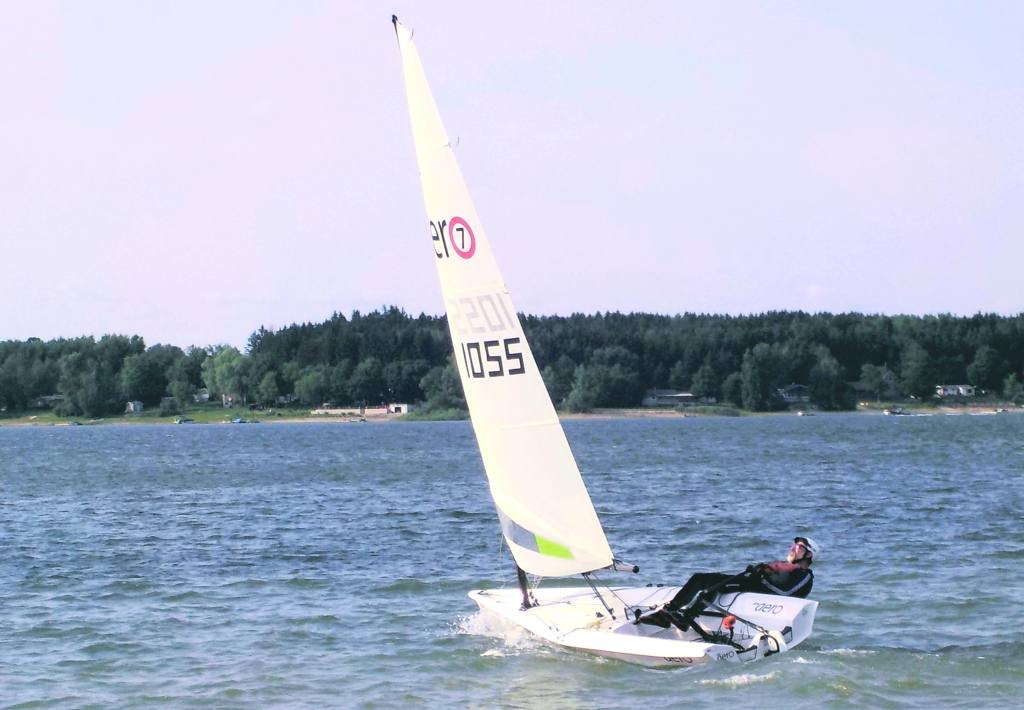
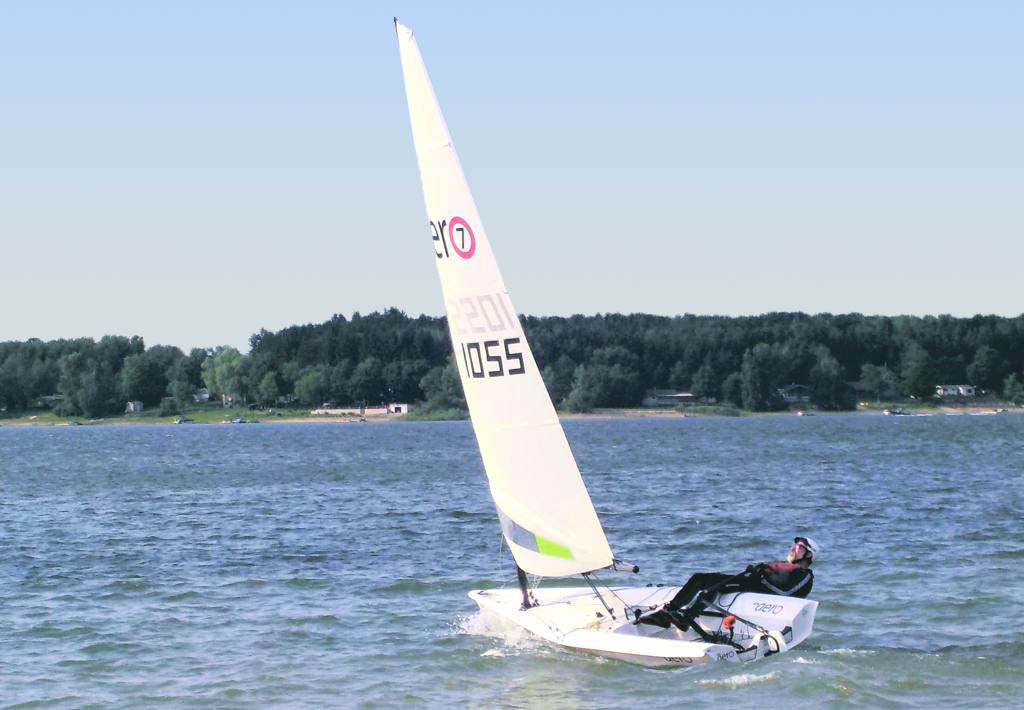
Color tint

diff --git a/index.md.html b/index.md.html
@@ -37,31 +37,34 @@ of each page.
     4. [Coastal Cruising Sailboats](cruisers/index.md.html)
 8. [A Sailor's Bookshelf](bookshelf/index.md.html)
 
+
 _In development_:
-- Intermediate Sail Trim
+- Intermediate Sail Trim <!-- [Intermediate Sail Trim Guide](trim/intermediate.md.html) -->
 - Racing Tactics
 - Cruiser Electrical Systems
-- Mooring
+- Mooring <!-- [Mooring and Anchoring](mooring/index.md.html) -->
 - Marine Sanitation Systems
 - Cruising Gear
 
-<!-- 
-- [Novice Sail Trim Guide](trim/novice.md.html)
-- [Intermediate Sail Trim Guide](trim/intermediate.md.html)
-- [Mooring and Anchoring](mooring/index.md.html)
--->
 
 # Nautical Term Translations
 
-To and From English and:
+Translations to and from English and...
+
+<table><tr valign="top"><td>
 
 - [French](https://icdept.cgaux.org/pdf_files/English-French-Glossary-Nautical-Terms.pdf)
 - [German](http://icdept.cgaux.org/pdf_files/German-English-Glossary.pdf)
 - [Italian](https://icdept.cgaux.org/pdf_files/English-Italian-Glossary-Nautical-Terms.pdf)
 - [Spanish](https://icdept.cgaux.org/pdf_files/English-Spanish-Glossary-Nautical-Terms.pdf)
+
+</td><td>
+
 - [Portuguese](https://icdept.cgaux.org/pdf_files/English-Portuguese-Glossary-Nautical-Terms.pdf)
 - [Japanese](https://icdept.cgaux.org/pdf_files/English-Japanese-Glossary-Nautical-Terms.pdf)
 - [Chinese](https://icdept.cgaux.org/pdf_files/English-Chinese-Glossary-Nautical-Terms.pdf)
+
+</td></tr></table>
 
 In my notes, I spell "gybe" as in British English (vs. "jibe"), but
 also use the American term "vang" (vs. "kicker"). That's because a) I
@@ -101,7 +104,7 @@ trans-Atlantic vocabulary.
   - [Navionics](https://www.navionics.com/)
   - [Savvy Navvy](https://www.savvy-navvy.com/)
 - AIS: [MarineTraffic](https://www.marinetraffic.com/)
-- Anchor alarm: [Anchor Pro](https://apps.apple.com/us/app/anchor-pro/id1445476850) _Note: anchor alarms do not work on Android phones!_
+- iOS Anchor alarm: [Anchor Pro](https://apps.apple.com/us/app/anchor-pro/id1445476850) _Note: anchor alarms do not work on Android phones!_
 - Current: [PNW Current Atlas](https://apps.apple.com/us/app/pnw-current-atlas/id1456020312)
 
 <br>
